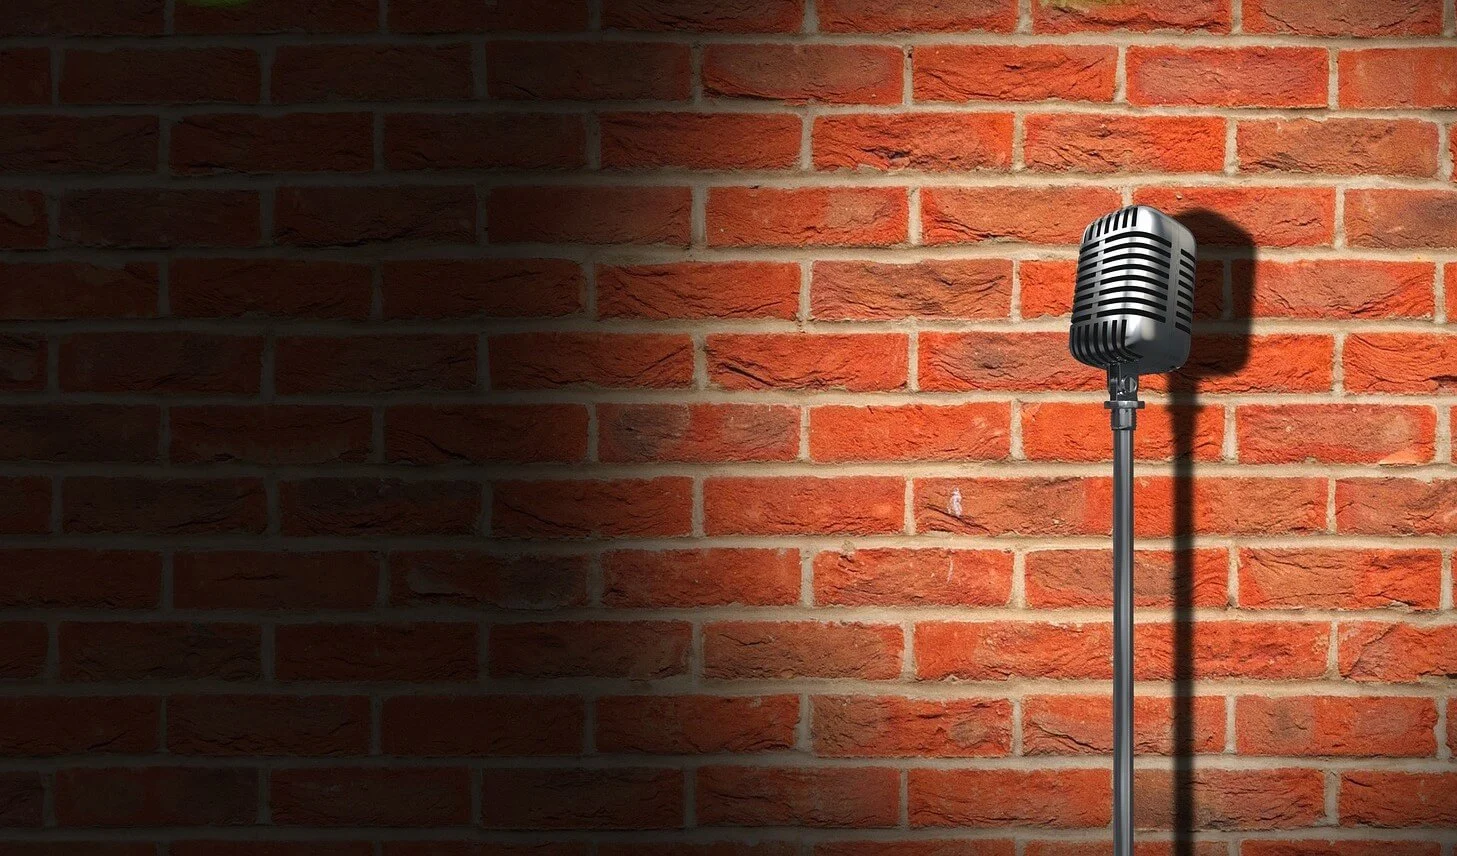
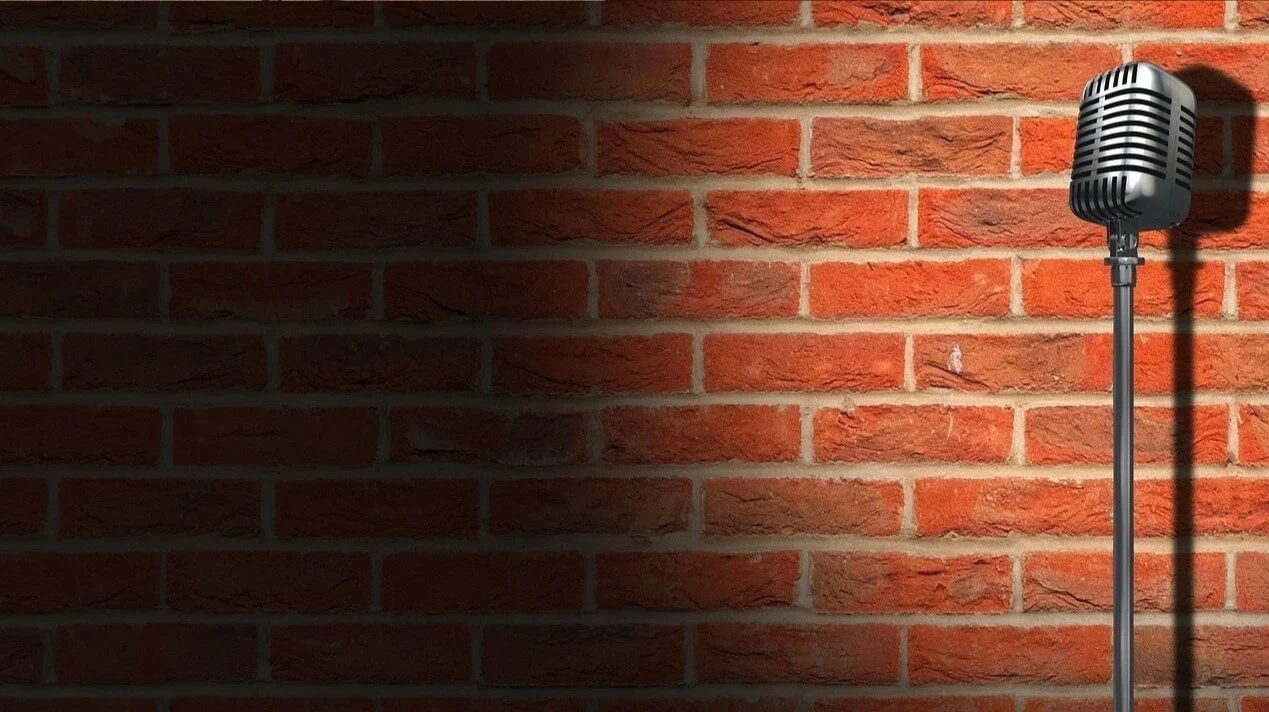
change main-photo position

diff --git a/index.html b/index.html
@@ -13,9 +13,6 @@
     <link rel="stylesheet" href="assets/style.css">
     <!-- favicon -->
     <link rel="shortcut icon" href="assets/images/favicon.ico" type="image/x-icon">
-    <!-- preload background image -->
-    <link rel="preload" href="assets/images/wall.webp" as="image">
-    <link rel="preload" href="assets/images/wall-crop.webp" as="image">
 
 </head>
 
@@ -70,7 +67,7 @@
     <section id="address-hours">
         <!-- address -->
         <div id="find-us">
-            <h3>Where to find us:</h3>
+            <h2>Where to find us:</h2>
             <p>
                 15 St Martins Close
                 <br>
@@ -83,13 +80,13 @@
         </div>
         <!-- map -->
         <div id="map">
-            <iframe loading="lazy"
+            <iframe title="google-map" loading="lazy"
                 src="https://maps.google.com/maps?width=100%25&amp;height=300&amp;hl=en&amp;q=15%20St%20Martins%20Close%20London+(My%20Business%20Name)&amp;t=&amp;z=14&amp;ie=UTF8&amp;iwloc=B&amp;output=embed">distance
                 maps</iframe>
         </div>
         <!-- opening hours -->
         <div id="opening">
-            <h3>Opening Hours:</h3>
+            <h2>Opening Hours:</h2>
             <ul>
                 <li>
                     Monday: Closed

diff --git a/assets/style.css b/assets/style.css
@@ -105,7 +105,7 @@ nav {
     /* so main photo covers screen height */
     height: 88vh;
     width: 100%;
-    background: url(images/wall.webp) no-repeat center center;
+    background: url(images/wall.webp) no-repeat right top;
     background-size: cover;
     /* position: relative; */
     /* keep background image in place when scrolling */
@@ -222,7 +222,7 @@ nav {
     margin-bottom: 5vh;
 }
 
-h3 {
+h2 {
     font-size: 25px;
 }
 
@@ -258,7 +258,7 @@ iframe {
     list-style-type: none;
 }
 
-#opening>h3 {
+#opening>h2 {
     padding-bottom: 1vh;
 }
 
@@ -275,6 +275,10 @@ footer {
 }
 
 /* social media links */
+h3 {
+    font-size: 25px;
+}
+
 footer li {
     list-style-type: none;
     text-transform: uppercase;
@@ -778,7 +782,7 @@ button a {
 
 }
 
-@media (max-width: 400px) {
+@media (max-width: 420px) {
     #logo a {
         font-size: 20px;
     }
@@ -787,10 +791,10 @@ button a {
         line-height: 30px;
     }
 
-    #main-photo {
+    /* #main-photo {
         background: url(/assets/images/wall-crop.webp) no-repeat center center;
         background-size: cover;
-    }
+    } */
 
     footer {
         padding-top: 1.5vh;
